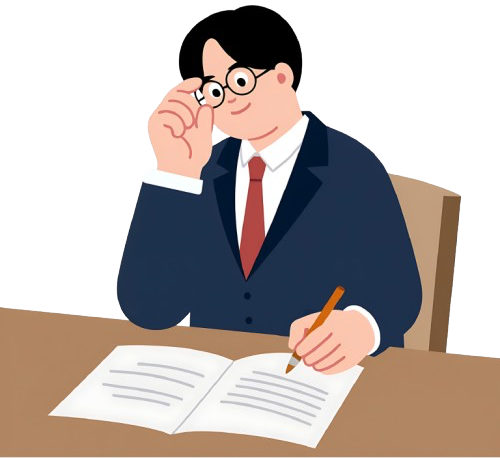
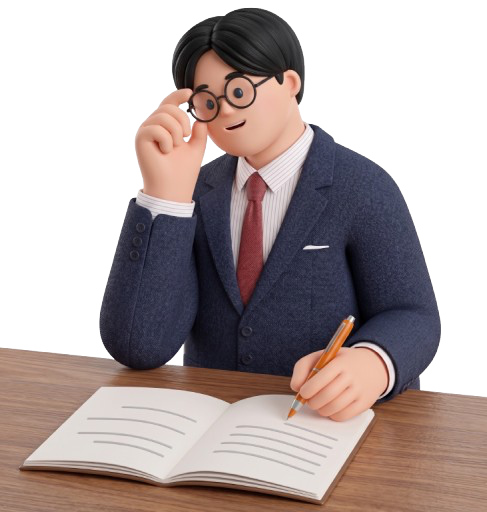
onboarding v7

diff --git a/src/app/pages/onboarding/onboarding.component.scss b/src/app/pages/onboarding/onboarding.component.scss
@@ -30,35 +30,12 @@
     flex: 1.2;
   }
 
-  .bg-shape {
-    position: absolute;
-    width: 85%;
-    aspect-ratio: 1;
-    background-color: #07B1C9;
-    border-radius: 50%;
-    z-index: -1;
-    top: 50%;
-    left: 50%;
-    transform: translate(-50%, -50%);
-    
-    @media (min-width: 1024px) {
-      width: 90%;
-      top: 50%;
-      left: 45%;
-    }
-  }
-
-  .illustration {
-    max-width: 80%;
-    max-height: 90%;
-    object-fit: contain;
+  .combined-illustration {
+    width: 100%;
+    height: 100%;
+    object-fit: cover;
+    object-position: center bottom;
     z-index: 2;
-    transform: translateY(20px);
-    
-    @media (min-width: 1024px) {
-      max-width: 75%;
-      transform: translateY(0);
-    }
   }
 }
 

diff --git a/src/app/pages/onboarding/onboarding.component.html b/src/app/pages/onboarding/onboarding.component.html
@@ -1,10 +1,7 @@
 <div class="onboarding-container">
   
   <div class="visual-section">
-    <div class="bg-shape"></div>
-    <!-- Using the generic login-illustration as placeholder for the character since there isn't a new 3D graphic provided -> user said "the only thing that is going to be changed is the blue", implying reusing existing or we just use login-illustration.png which is already an avatar. -->
-    <!-- Let's use login-illustration.png from public/assets -->
-    <img src="assets/illustration-0.png" alt="Onboarding Illustration" class="illustration">
+    <img src="assets/illustration-0.png" alt="Onboarding Illustration" class="combined-illustration">
   </div>
 
   <div class="content-section">

diff --git a/src/app/pages/register/register.component.scss b/src/app/pages/register/register.component.scss
@@ -64,7 +64,7 @@
   .avatar-img {
     position: relative;
     z-index: 2;
-    max-width: 280px;
+    max-width: 250px;
     margin-bottom: 0;
   }
 
@@ -93,7 +93,7 @@
     }
 
     .avatar-img {
-      max-width: 380px;
+      max-width: 350px;
       margin-bottom: 0px;
     }
 
